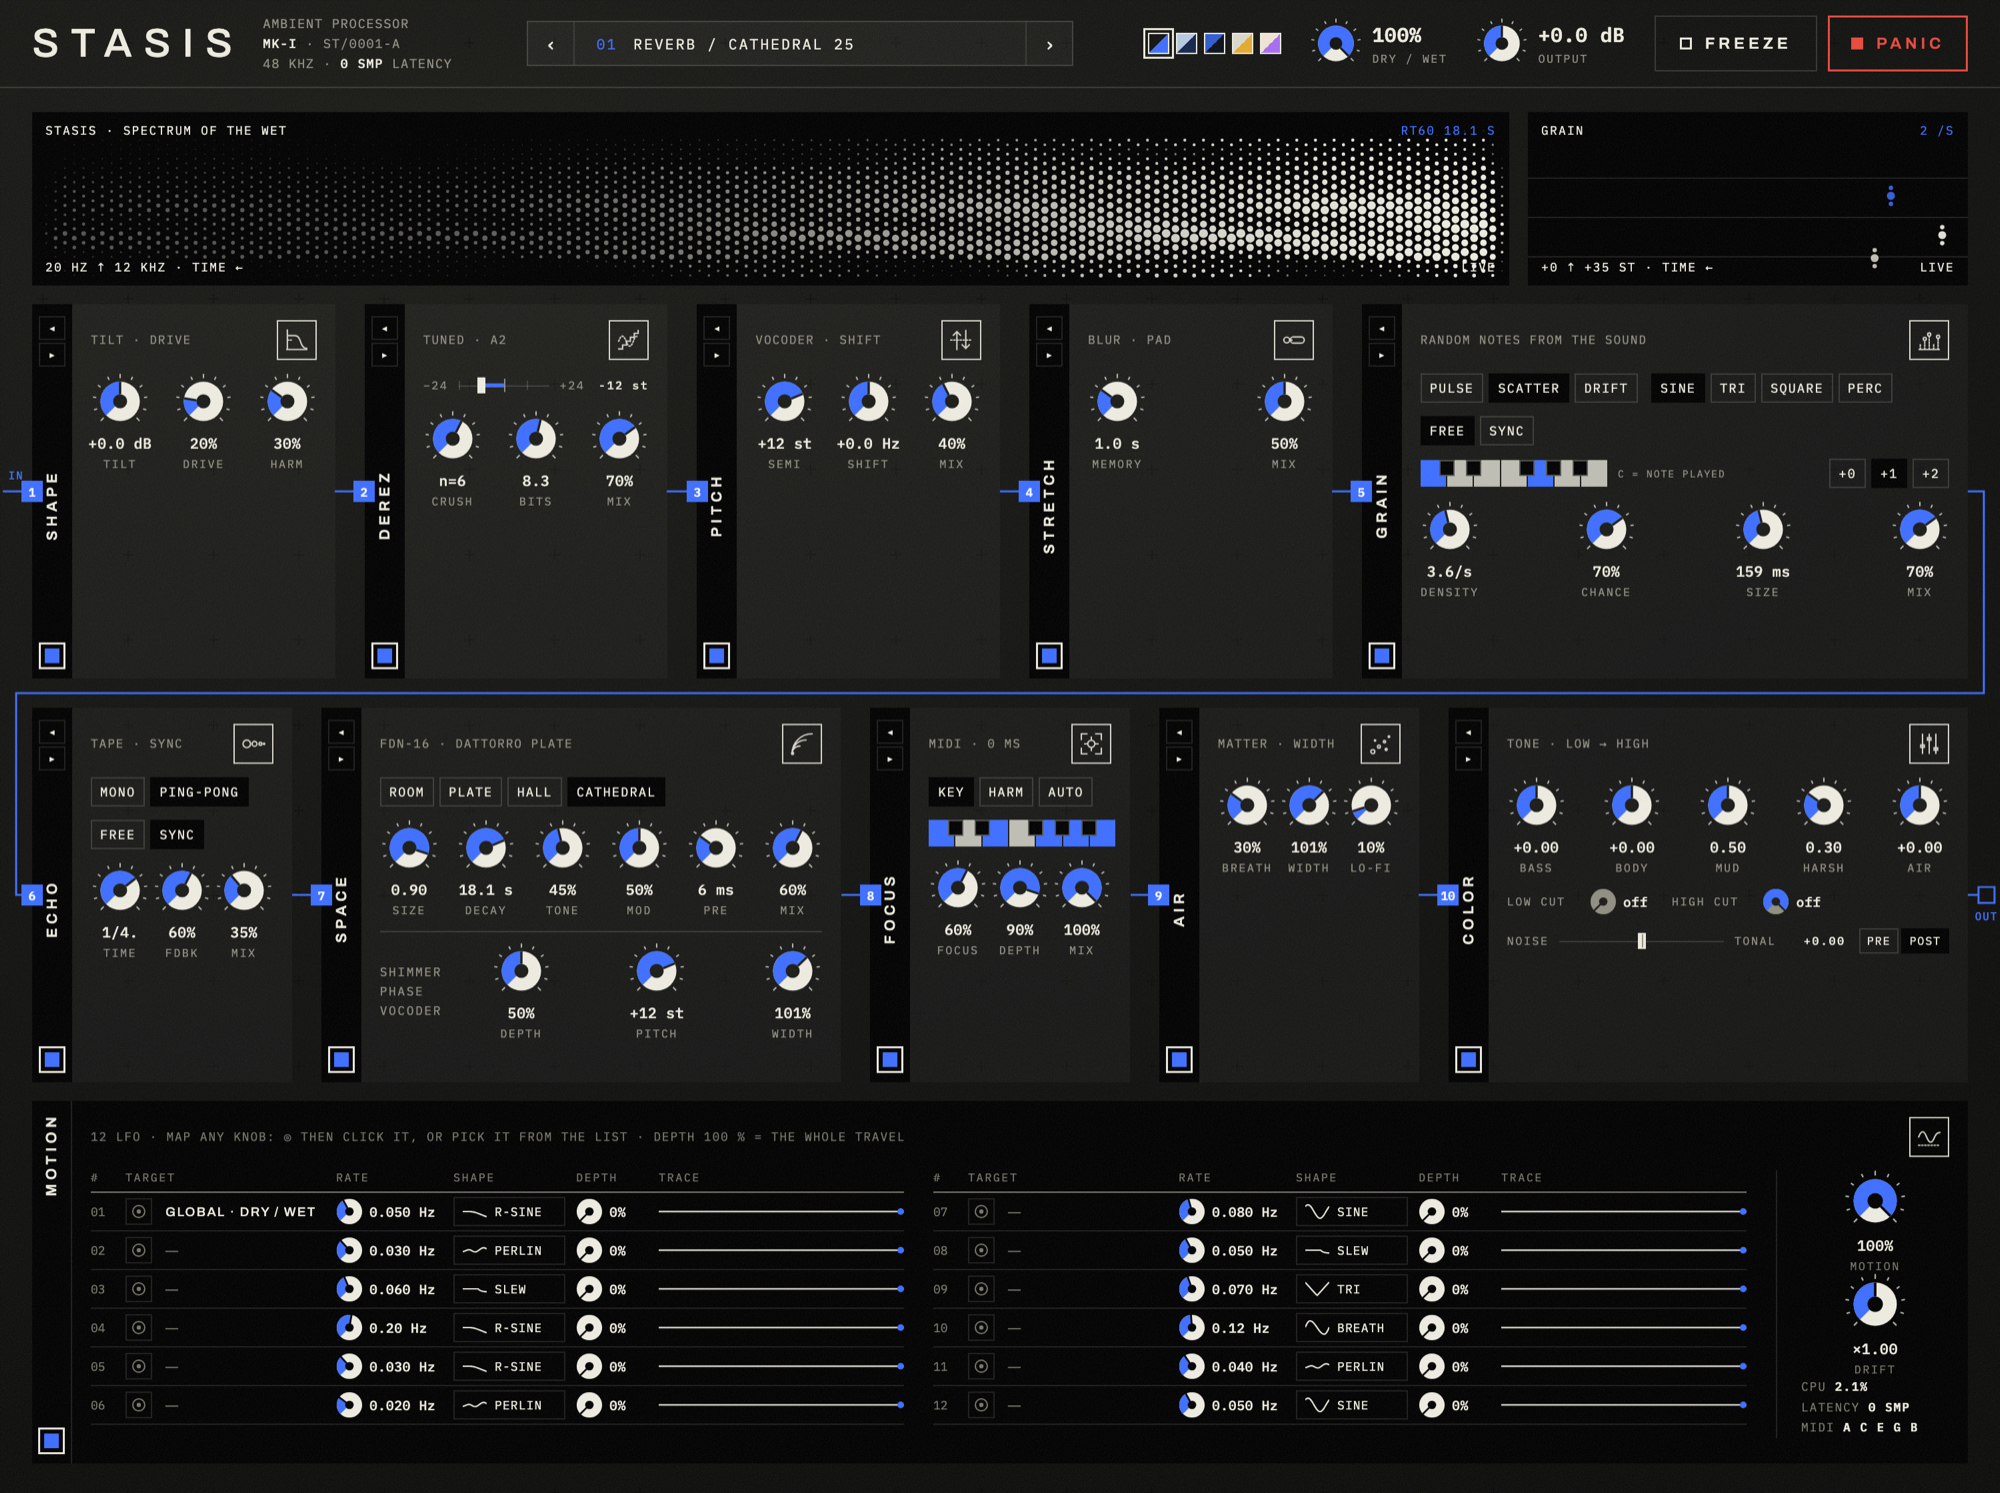
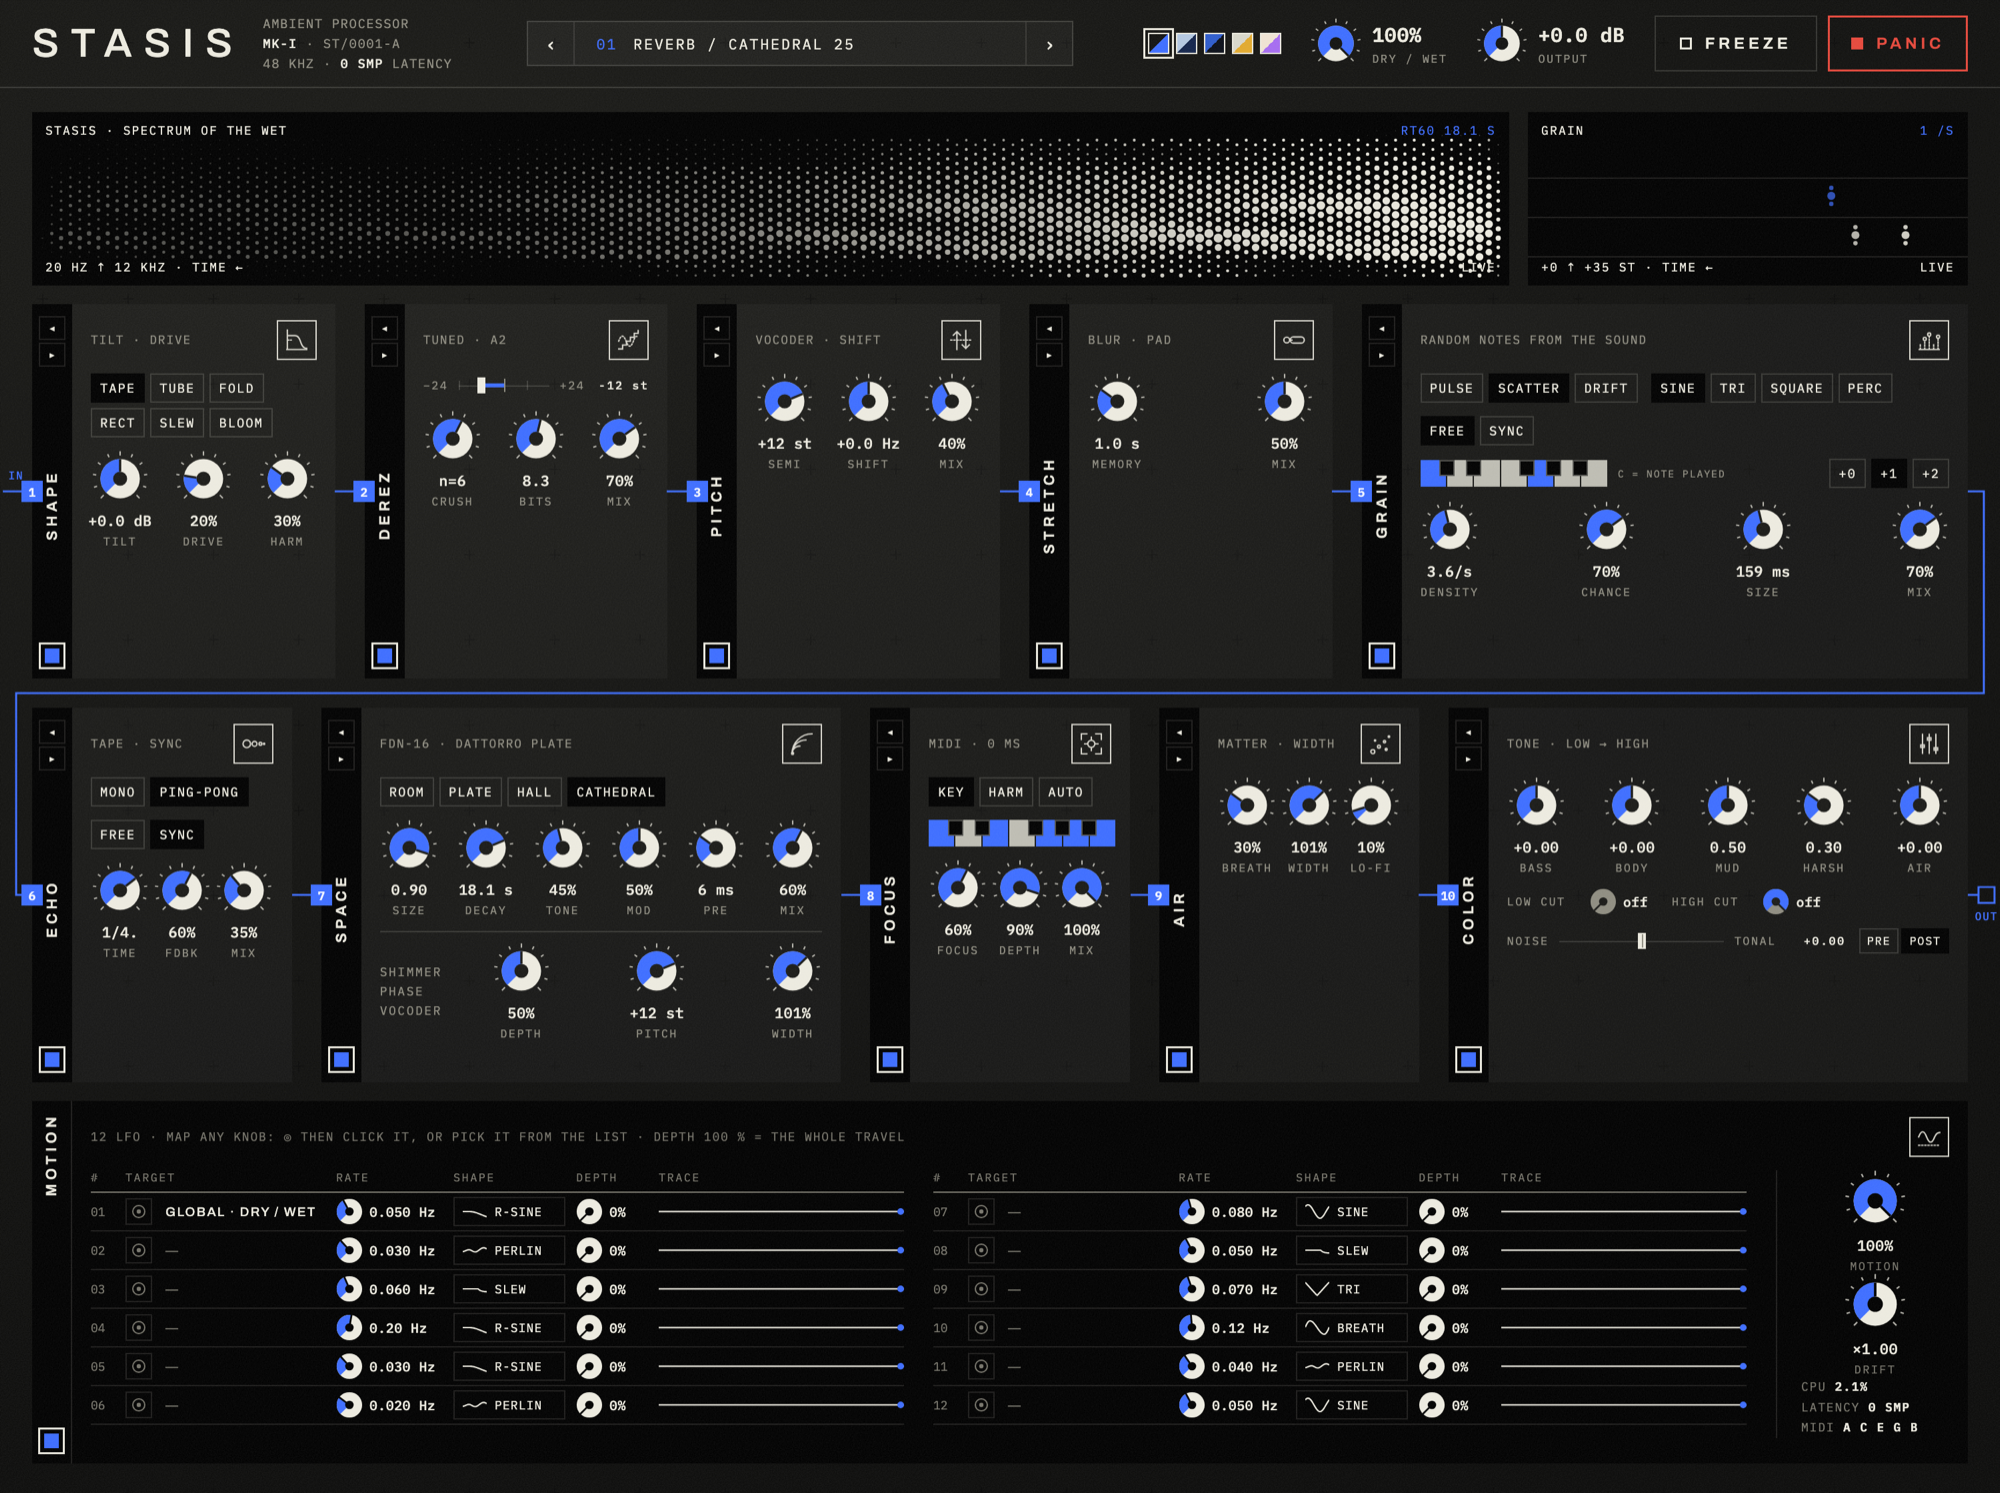
SHAPE: six drive types (TAPE, TUBE, FOLD, RECTIFY, SLEW, BLOOM)
- 2x oversampling (31-tap halfband) for every type but TAPE (ADAA)
- Level matched by RMS at -12 dBFS for each curve
- SLEW uses a smooth limiter (a hard clamp beat against the sample clock)
- Measured: level 0 dB at -12 dBFS, aliasing at 3.1 kHz -3 dBFS from
  -21 dB (RECTIFY) to -50 dB (BLOOM), 0.14 ms per 512 samples at 96 kHz

Changed region(s): [[0.031, 0.0924, 0.775, 0.1849], [0.031, 0.2465, 0.155, 0.3697]]

diff --git a/design/mockup.html b/design/mockup.html
@@ -556,8 +556,9 @@ const state = { size: .9, decay: .75, tone: .45, shimmer: .5, freeze: false, str
 // Modules that exist in the audio engine (the others are design only for now).
 const LIVE_MODS = ['shape', 'derez', 'pitch', 'stretch', 'grain', 'echo', 'space', 'focus', 'air', 'color', 'motion'];
 const MODS = {
-  shape:  { n: '01', name: 'SHAPE',   code: 'Tilt · drive', build: b => b.append(knobRow([
-            { id: 'shape_tilt', l: 'Tilt', t: .5, f: bip(' dB', 6, 1) }, { id: 'shape_drive', l: 'Drive', t: .2, f: pct }, { id: 'shape_harm', l: 'Harm', t: .3, f: pct }])) },
+  shape:  { n: '01', name: 'SHAPE',   code: 'Tilt · drive', build: b => b.append(
+            seg(['Tape', 'Tube', 'Fold', 'Rect', 'Slew', 'Bloom'], 0, null, 'shape_type'),
+            knobRow([{ id: 'shape_tilt', l: 'Tilt', t: .5, f: bip(' dB', 6, 1) }, { id: 'shape_drive', l: 'Drive', t: .2, f: pct }, { id: 'shape_harm', l: 'Harm', t: .3, f: pct }])) },
   derez:  { n: '02', name: 'DEREZ',   code: 'Tuned · A2', build: b => {
             // Interval: a cursor in semitones, -24 .. +24, snapped to the semitone.
             const st = v => { const n = Math.round(v * 24); return (n > 0 ? '+' : '') + n + ' st'; };

diff --git a/dsp/include/stasis/shape.h b/dsp/include/stasis/shape.h
@@ -1,27 +1,85 @@
 #pragma once
 
+#include <array>
+
 #include "color.h"
 #include "common.h"
 
 namespace stasis {
 
+// 2× oversampler: zero-stuffing and decimation through the same 31-tap halfband
+// (windowed sinc, Blackman). Lets the curves below fold harmonics above Nyquist far less.
+class Oversampler2x {
+public:
+    Oversampler2x() {
+        for (int i = 0; i < kTaps; ++i) {
+            const double n = i - (kTaps - 1) / 2.0;
+            const double sinc = n == 0.0 ? 0.5 : std::sin(0.5 * kPi * n) / (kPi * n);
+            const double w = 0.42 - 0.5 * std::cos(2.0 * kPi * i / (kTaps - 1)) + 0.08 * std::cos(4.0 * kPi * i / (kTaps - 1));
+            h_[size_t(i)] = float(sinc * w);
+        }
+    }
+    void up(float x, float& a, float& b) {
+        push(upHistory_, upPos_, 2.0f * x);
+        a = convolve(upHistory_, upPos_);
+        push(upHistory_, upPos_, 0.0f);
+        b = convolve(upHistory_, upPos_);
+    }
+    float down(float a, float b) {
+        push(downHistory_, downPos_, a);
+        push(downHistory_, downPos_, b);
+        return convolve(downHistory_, downPos_);
+    }
+
+private:
+    static constexpr int kTaps = 31;
+    using History = std::array<float, kTaps>;
+    static void push(History& h, int& pos, float x) {
+        pos = (pos + 1) % kTaps;
+        h[size_t(pos)] = x;
+    }
+    float convolve(const History& h, int pos) const {
+        float sum = 0.0f;
+        for (int i = 0; i < kTaps; ++i) sum += h_[size_t(i)] * h[size_t((pos - i + kTaps) % kTaps)];
+        return sum;
+    }
+    std::array<float, kTaps> h_{};
+    History upHistory_{}, downHistory_{};
+    int upPos_ = 0, downPos_ = 0;
+};
+
 // SHAPE: the first touch on the sound, before the chain.
 //  TILT   -1..1  ±6 dB tilt around 800 Hz (dark ◂▸ bright), two shelves
-//  DRIVE   0..1  tanh saturation, antialiased (ADAA). Level is matched at -12 dBFS:
-//                quieter parts come up a little, louder ones round off
-//  HARM    0..1  asymmetry: adds even harmonics (warm, tube-like); the DC it creates
-//                is removed
+//  TYPE          how DRIVE bends the wave:
+//    TAPE     tanh, antialiased (ADAA): round, warm, the classic
+//    TUBE     asymmetric exponential: the positive side softens early, the negative
+//             side later; even harmonics even without HARM
+//    FOLD     sine wavefolder: past full scale the wave folds back on itself; bells,
+//             glassy overtones, "west coast"
+//    RECTIFY  blends in the rectified wave: an octave up appears (fuzz octaver)
+//    SLEW     limits how fast the wave may move: sharp edges turn into ramps; a soft,
+//             ghostly, slightly detuned grit that follows the pitch
+//    BLOOM    drive follows the level inversely: loud notes stay clean, their decay and
+//             the reverb tails get gritty as they fade
+//  DRIVE   0..1  amount. Level is matched at -12 dBFS
+//  HARM    0..1  asymmetry: adds even harmonics; the DC it creates is removed
+// All types but TAPE run 2× oversampled.
 class Shape {
 public:
+    enum class Type { Tape, Tube, Fold, Rectify, Slew, Bloom };
+
     struct Params {
         float tilt = 0.0f;
         float drive = 0.0f;
         float harm = 0.0f;
+        Type type = Type::Tape;
     };
 
     void prepare(float sampleRate) {
         sampleRate_ = sampleRate;
         for (auto& d : dcBlock_) d.setCutoff(8.0f, sampleRate);
+        envCoef_ = smoothingCoef(0.05f, sampleRate);
+        for (auto& c : channels_) c = {};
         setParams(params_);
     }
 
@@ -32,32 +90,101 @@ public:
             low_[c].set(SvfEq::Type::LowShelf, 800.0f, 0.5f, -tiltDb, sampleRate_);
             high_[c].set(SvfEq::Type::HighShelf, 800.0f, 0.5f, tiltDb, sampleRate_);
         }
-        gain_ = 1.0f + 7.0f * p.drive * p.drive;
+        const float d = std::clamp(p.drive, 0.0f, 1.0f);
+        gain_ = 1.0f + 7.0f * d * d;
+        if (p.type == Type::Fold) gain_ = 1.0f + 11.0f * d * d;  // folding starts past full scale
+        if (p.type == Type::Slew) gain_ = 1.0f + 2.0f * d;
         bias_ = 0.4f * std::clamp(p.harm, 0.0f, 1.0f);
-        biasOut_ = std::tanh(bias_);
-        constexpr float kReference = 0.25f;  // -12 dBFS keeps its level
-        norm_ = kReference / (std::tanh(gain_ * kReference + bias_) - biasOut_);
-        saturate_ = p.drive > 1.0e-3f || p.harm > 1.0e-3f;
+        // SLEW: largest step per (oversampled) sample, from free to a crawl.
+        slewStep_ = 1.0f / (1.0f + 40.0f * d * d);
+        saturate_ = d > 1.0e-3f || p.harm > 1.0e-3f;
+        // Level matched at -12 dBFS: the RMS of a sine at that level, through the curve
+        // (DC removed, as the DC blocker will), equals the input's. BLOOM matches per
+        // sample, its drive moves.
+        constexpr float kReference = 0.25f;
+        double sum = 0.0, sumSq = 0.0;
+        constexpr int kPoints = 64;
+        for (int i = 0; i < kPoints; ++i) {
+            const float y = curve(gain_ * kReference * std::sin(kTwoPi * float(i) / kPoints) + bias_) - curve(bias_);
+            sum += y;
+            sumSq += double(y) * y;
+        }
+        const double variance = sumSq / kPoints - (sum / kPoints) * (sum / kPoints);
+        norm_ = variance > 1.0e-12 ? float(kReference / std::sqrt(2.0 * variance)) : 1.0f;
     }
 
     void process(const float* inL, const float* inR, float* outL, float* outR, int numSamples) {
         const float* in[2] = {inL, inR};
         float* out[2] = {outL, outR};
-        for (int c = 0; c < 2; ++c)
+        const float biasOut = curve(bias_);
+        for (int c = 0; c < 2; ++c) {
+            auto& ch = channels_[size_t(c)];
             for (int n = 0; n < numSamples; ++n) {
                 float v = high_[c].process(low_[c].process(in[c][n]));
-                if (saturate_) v = dcBlock_[c].highpass((sat_[c].process(gain_ * v + bias_) - biasOut_) * norm_);
+                if (saturate_) {
+                    if (params_.type == Type::Tape) {
+                        v = (ch.adaa.process(gain_ * v + bias_) - biasOut) * norm_;
+                    } else {
+                        float norm = norm_, gain = gain_;
+                        if (params_.type == Type::Bloom) {
+                            ch.env += envCoef_ * (std::abs(v) - ch.env);
+                            const float quiet = 1.0f - std::min(1.0f, ch.env / 0.3f);
+                            gain = 1.0f + 20.0f * params_.drive * quiet;
+                            norm = 0.25f / (std::tanh(gain * 0.25f + bias_) - biasOut + 1.0e-6f);
+                        }
+                        float a, b;
+                        ch.oversampler.up(v, a, b);
+                        a = (shapeSample(ch, gain * a + bias_) - biasOut) * norm;
+                        b = (shapeSample(ch, gain * b + bias_) - biasOut) * norm;
+                        v = ch.oversampler.down(a, b);
+                    }
+                    v = dcBlock_[c].highpass(v);
+                }
                 out[c][n] = v;
             }
+        }
     }
 
 private:
+    struct Channel {
+        TanhAdaa adaa;
+        Oversampler2x oversampler;
+        float slewed = 0.0f, env = 0.0f;
+    };
+
+    // The static curve of the current type (what the level matching measures).
+    float curve(float x) const {
+        switch (params_.type) {
+            case Type::Tape:
+            case Type::Slew:
+            case Type::Bloom: return std::tanh(x);
+            case Type::Tube: return x >= 0.0f ? 1.0f - std::exp(-x) : (std::exp(1.4f * x) - 1.0f) / 1.4f;
+            case Type::Fold: return std::sin(0.5f * kPi * x);
+            case Type::Rectify: {
+                const float m = std::clamp(params_.drive, 0.0f, 1.0f);
+                return std::tanh((1.0f - m) * x + m * std::abs(x));
+            }
+        }
+        return x;
+    }
+
+    float shapeSample(Channel& ch, float x) {
+        if (params_.type == Type::Slew) {
+            // A smooth limit: small moves pass, large ones tend to slewStep_ per sample.
+            // (A hard clamp beats against the sample clock and leaves sub-tones.)
+            const float diff = x - ch.slewed;
+            ch.slewed += diff / (1.0f + std::abs(diff) / slewStep_);
+            return std::tanh(ch.slewed);
+        }
+        return curve(x);
+    }
+
     float sampleRate_ = 48000.0f;
     Params params_;
     SvfEq low_[2], high_[2];
-    TanhAdaa sat_[2];
     OnePole dcBlock_[2];
-    float gain_ = 1.0f, bias_ = 0.0f, biasOut_ = 0.0f, norm_ = 1.0f;
+    std::array<Channel, 2> channels_{};
+    float gain_ = 1.0f, bias_ = 0.0f, norm_ = 1.0f, slewStep_ = 1.0f, envCoef_ = 0.01f;
     bool saturate_ = false;
 };
 

diff --git a/plugin/Source/Engine.h b/plugin/Source/Engine.h
@@ -208,7 +208,8 @@ private:
         on_[kSpace] = v(values, iSpaceOn) > 0.5f;
         on_[kFocus] = v(values, iFocusOn) > 0.5f;
         on_[kColor] = v(values, iColorOn) > 0.5f;
-        static const int iShapeOn = indexOf("shape_on"), iTilt = indexOf("shape_tilt"), iDrive = indexOf("shape_drive"), iHarm = indexOf("shape_harm");
+        static const int iShapeOn = indexOf("shape_on"), iTilt = indexOf("shape_tilt"), iDrive = indexOf("shape_drive"), iHarm = indexOf("shape_harm"),
+                         iShapeType = indexOf("shape_type");
         static const int iPitchOn = indexOf("pitch_on"), iSemi = indexOf("pitch_semi"), iShift = indexOf("pitch_shift"), iPitchMix = indexOf("pitch_mix");
         static const int iAirOn = indexOf("air_on"), iBreath = indexOf("air_breath"), iWidthAir = indexOf("air_width"), iLofi = indexOf("air_lofi");
         on_[kShape] = v(values, iShapeOn) > 0.5f;
@@ -216,7 +217,8 @@ private:
         on_[kAir] = v(values, iAirOn) > 0.5f;
         mix_[kShape] = mix_[kAir] = 1.0f;
         mix_[kPitch] = v(values, iPitchMix);
-        if (changed({iTilt, iDrive, iHarm})) shape_.setParams({2.0f * v(values, iTilt) - 1.0f, v(values, iDrive), v(values, iHarm)});
+        if (changed({iTilt, iDrive, iHarm, iShapeType}))
+            shape_.setParams({2.0f * v(values, iTilt) - 1.0f, v(values, iDrive), v(values, iHarm), Shape::Type(std::clamp(int(v(values, iShapeType)), 0, 5))});
         if (changed({iSemi, iShift})) pitch_.setParams({pitchSemitones(v(values, iSemi)), shiftHz(v(values, iShift))});
         if (changed({iBreath, iWidthAir, iLofi})) air_.setParams({v(values, iBreath), v(values, iWidthAir), v(values, iLofi)});
         static const int iGrainOn = indexOf("grain_on"), iAlgo = indexOf("grain_algo"), iEnv = indexOf("grain_env"), iDensity = indexOf("grain_density"),

diff --git a/plugin/Source/Params.h b/plugin/Source/Params.h
@@ -96,6 +96,7 @@ inline const std::vector<Spec>& all() {
         {"freeze", "Freeze", Kind::Bool, 0.0f},
         // SHAPE
         {"shape_on", "Shape On", Kind::Bool, 0.0f},
+        {"shape_type", "Shape Type", Kind::Choice, 0.0f, {"Tape", "Tube", "Fold", "Rectify", "Slew", "Bloom"}},
         {"shape_tilt", "Shape Tilt", Kind::Float, 0.5f, {}, [](float t) { return bip(t, 6.0f, " dB"); }},
         {"shape_drive", "Shape Drive", Kind::Float, 0.2f, {}, pct},
         {"shape_harm", "Shape Harmonics", Kind::Float, 0.3f, {}, pct},

diff --git a/README.md b/README.md
@@ -51,9 +51,21 @@ MIDI IN ─────────┴──────────────
 ### SHAPE — la première touche
 | Contrôle | Effet |
 |---|---|
+| `TYPE` | La façon dont DRIVE tord l'onde (voir ci-dessous) |
 | `TILT` | Bascule ±6 dB autour de 800 Hz : sombre ◂▸ brillant |
-| `DRIVE` | Saturation tanh sans repliement (ADAA), niveau conservé vers −12 dBFS |
+| `DRIVE` | Quantité ; le niveau reste le même à −12 dBFS quel que soit le type |
 | `HARM` | Asymétrie : harmoniques paires, chaleur « lampe » |
+
+| Type | Caractère |
+|---|---|
+| `TAPE` | tanh sans repliement (ADAA) : rond, chaud, le classique |
+| `TUBE` | Exponentielle asymétrique : le haut de l'onde s'adoucit plus tôt que le bas ; harmoniques paires même sans HARM |
+| `FOLD` | Repli d'onde (sinus) : au-delà du plein niveau, l'onde se replie sur elle-même ; cloches, harmoniques de verre, « west coast » |
+| `RECT` | Mélange l'onde redressée : une octave au-dessus apparaît (fuzz octaver) |
+| `SLEW` | Limite la vitesse de l'onde : les fronts deviennent des rampes ; un grain doux, fantomatique, qui suit la hauteur (sur des aigus forts, un léger sous-son reste audible) |
+| `BLOOM` | Le drive suit le niveau à l'envers : les attaques restent propres, les déclins et les queues de reverb s'encrassent en s'éteignant |
+
+Tous les types sauf TAPE tournent suréchantillonnés ×2 ; repliement mesuré à 3,1 kHz −3 dBFS : de −21 dB (RECT) à −50 dB (BLOOM).
 
 ### PITCH — transposition et décalage
 | Contrôle | Effet |

diff --git a/PLAN.md b/PLAN.md
@@ -506,6 +506,7 @@ Règle : **chaque phase se termine par des écoutes et des mesures** (CPU, IR, n
   - puis STRETCH réduit à BLUR seul (MEMORY + MIX) : SMEAR et CAPTURE retirés de l'interface et du moteur du plugin (ils restent dans `capture_stretch.h` pour l'outil de rendu) ;
   - flèches ◂ ▸ dans la tranche noire de chaque module.
 - **v0.6** : GRAIN (nouveau module, après STRETCH par défaut) : grains rejoués d'un tampon de 4 s, ordonnanceur PULSE / SCATTER / DRIFT, CHANCE, enveloppes SINE / TRI / SQUARE / PERC, intervalles autorisés + octaves 0–2, 32 voix ; petit visualiseur de grains à droite du spectre. Les anciennes sessions reçoivent GRAIN juste après STRETCH.
+- **v0.7** : SHAPE à 6 types (TAPE, TUBE, FOLD, RECTIFY, SLEW, BLOOM), suréchantillonnage ×2 (halfband 31 taps), niveau calé en RMS à −12 dBFS ; GRAIN SYNC ; clavier piano discret ; vue de grains aux trois encres de la charte.
 - **Reste à faire** :
   - embarquer les polices (aujourd'hui chargées depuis Google Fonts : sans réseau, l'interface passe sur des polices de secours).
 
